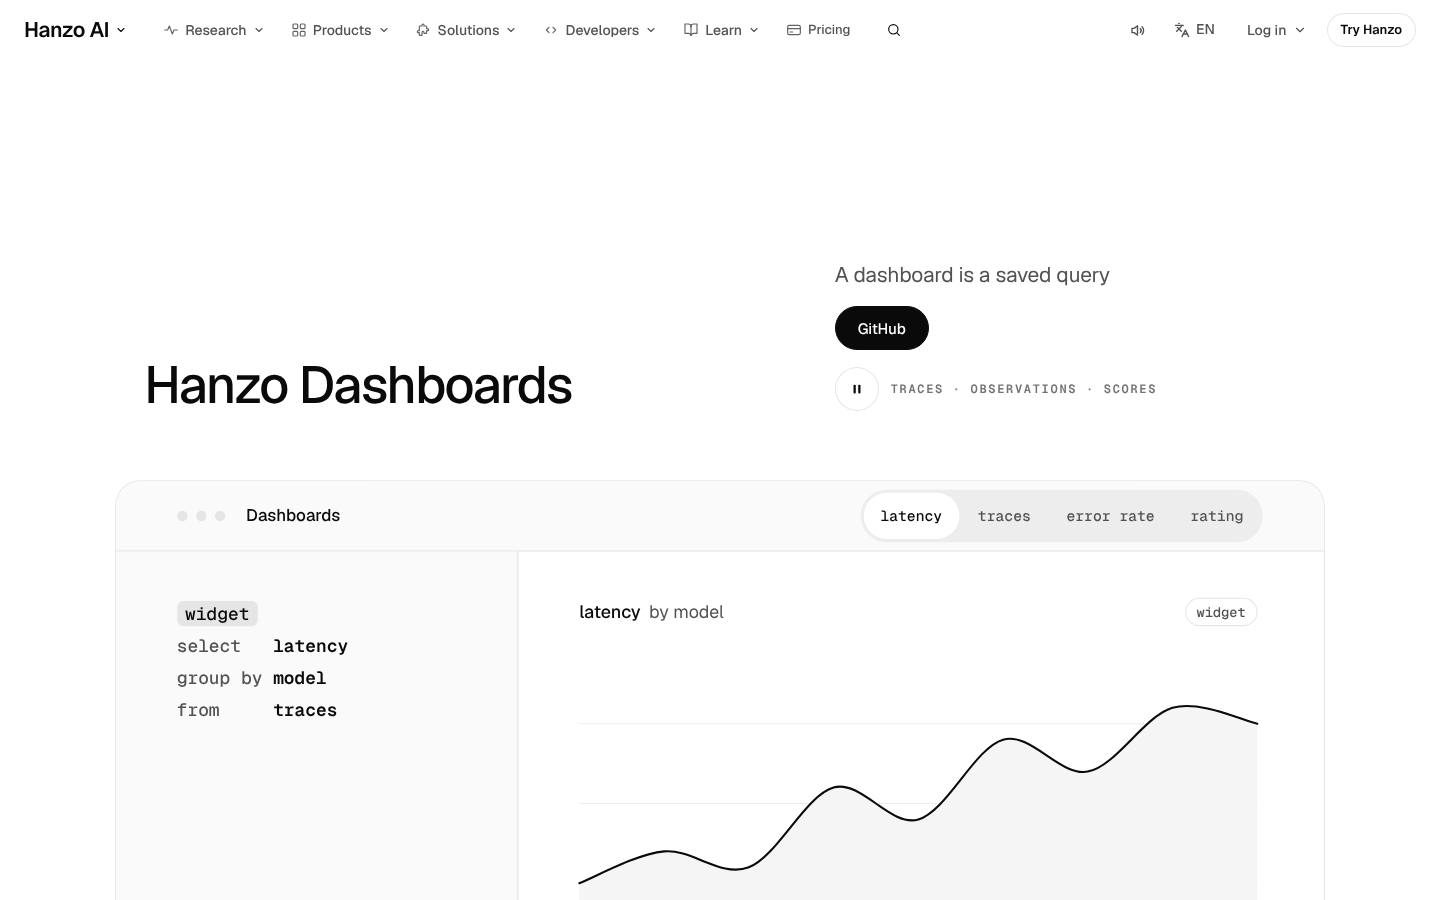
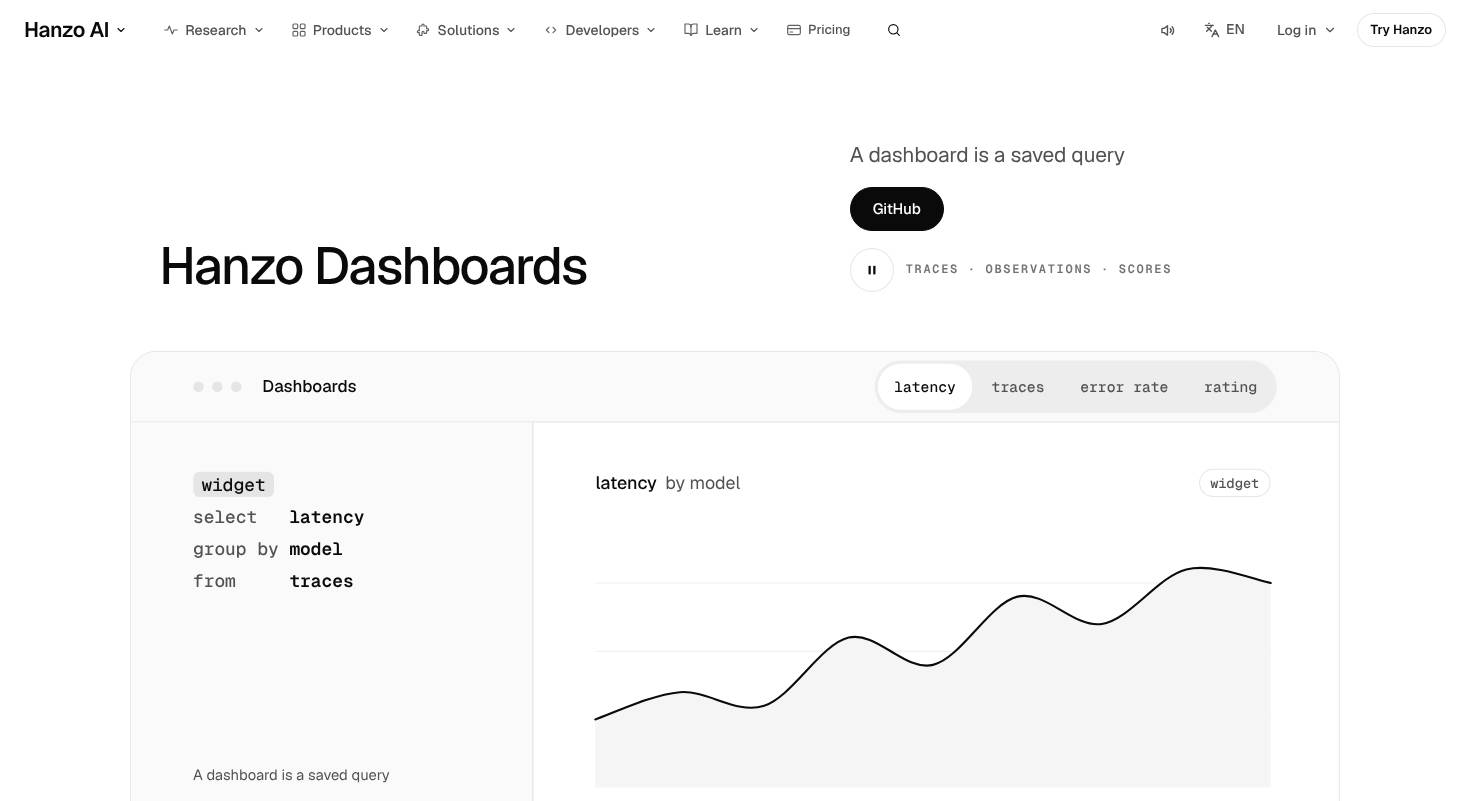
dashboards: Ready — wip edits verified; hero chart in first screen, phone sticky board clipped, gaps tightened, reduced motion final states
Adds components/pages/cloud/SafeClose.jsx (page-local KeynoteClose with useCalm, fixes the reduced-motion hydration error) for /crawl /dashboards /datastore /dns.

Claude-Session: https://claude.ai/code/session_01P5YBdx19ukLv4B41yE4M3v

diff --git a/components/pages/cloud/SafeClose.jsx b/components/pages/cloud/SafeClose.jsx
@@ -1,0 +1,69 @@
+'use client';
+/* SafeClose: v2/KeynoteClose (and its KeynoteRoom) with one change, so the pages that use it hydrate cleanly under
+   reduced motion (docs/requests/reduced-motion-hydration.md). KeynoteRoom reads motion's useReducedMotion() while
+   rendering (null on the server, true on the first client render), so the room's clip-path differs and React logs a
+   hydration error. This copy reads the kit's useCalm() instead. Same props, same markup, same CSS as KeynoteClose.
+   Used by /crawl /dashboards /datastore /dns. Delete it and import v2/KeynoteClose again once the shared file is fixed. */
+import { useRef } from 'react';
+import { motion, useScroll, useTransform, useMotionTemplate } from 'motion/react';
+import { Magnetic, useCalm } from '../../ui';
+import { A, Cta, CodeBlock } from '../../kit';
+import KeynoteLines from '../../v2/KeynoteLines';
+import { useWide } from '../../v2/KeynoteChapters';
+import '../../v2/Keynote.css';
+import '../../v2/KeynoteClose.css';
+
+function Room({ children, className = '', from = [6, 7, 24], tone = '#171717', id }) {
+  const ref = useRef(null);
+  const calm = useCalm();
+  const wide = useWide();
+  const { scrollYProgress: p } = useScroll({ target: ref, offset: ['start end', 'start 15%'] });
+  const v = useTransform(p, [0, 1], [wide ? from[0] : 2, 0], { clamp: true });
+  const h = useTransform(p, [0, 1], [wide ? from[1] : 3, 0], { clamp: true });
+  const r = useTransform(p, [0, 1], [wide ? from[2] : 24, 0], { clamp: true });
+  const clip = useMotionTemplate`inset(${v}% ${h}% ${v}% ${h}% round ${r}px)`;
+  return (
+    <section ref={ref} id={id} className={'knr ' + className} data-room="dark" style={{ position: 'relative', color: '#fafafa', isolation: 'isolate' }}>
+      <motion.div aria-hidden="true" style={{ position: 'absolute', inset: 0, background: tone, zIndex: -1, clipPath: calm ? 'none' : clip }} />
+      {children}
+    </section>
+  );
+}
+
+const Gh = () => <svg viewBox="0 0 16 16" width="14" height="14" fill="currentColor" aria-hidden="true"><path d="M8 0C3.58 0 0 3.58 0 8c0 3.54 2.29 6.53 5.47 7.59.4.07.55-.17.55-.38 0-.19-.01-.82-.01-1.49-2.01.37-2.53-.49-2.69-.94-.09-.23-.48-.94-.82-1.13-.28-.15-.68-.52-.01-.53.63-.01 1.08.58 1.23.82.72 1.21 1.87.87 2.33.66.07-.52.28-.87.51-1.07-1.78-.2-3.64-.89-3.64-3.95 0-.87.31-1.59.82-2.15-.08-.2-.36-1.02.08-2.12 0 0 .67-.21 2.2.82.64-.18 1.32-.27 2-.27.68 0 1.36.09 2 .27 1.53-1.04 2.2-.82 2.2-.82.44 1.1.16 1.92.08 2.12.51.56.82 1.27.82 2.15 0 3.07-1.87 3.75-3.65 3.95.29.25.54.73.54 1.48 0 1.07-.01 1.93-.01 2.2 0 .21.15.46.55.38A8.013 8.013 0 0016 8c0-4.42-3.58-8-8-8z" /></svg>;
+
+function Body({ name, tag, lead, prompt, api, cta = 'close', license = 'Apache-2.0', repo = ['hanzoai', 'https://github.com/hanzoai'], stars, deploy = 'https://platform.hanzo.ai/deploy', self, children, light }) {
+  return (
+    <div className="kn-wrap knx-in">
+      <KeynoteLines as="h2" className="kn-display md knx-h" lines={`Get ${name}`} />
+      {lead && <p className="kn-kick knx-lead">{lead}</p>}
+      <div className="kn-grid knx-g">
+        <div className="knx-l">
+          {tag && <p className="kn-lede knx-tag">{tag}</p>}
+          <div className="knx-meta">
+            {license && <span className="knx-chip"><span>License:</span> {license}</span>}
+            {repo && <A to={repo[1]} className="knx-chip"><Gh />{repo[0]}{stars && <em>{stars}</em>}</A>}
+          </div>
+          <div className="kn-acts knx-acts">
+            {deploy && <Magnetic strength={0.2}><Cta to={deploy} id={cta} className="knx-go">Deploy to Cloud</Cta></Magnetic>}
+            {self && <Cta to={self} kind="link" id={cta + '-self'} className="knx-self">Self-host</Cta>}
+          </div>
+          {children}
+        </div>
+        {prompt && (
+          <div className="knx-paste">
+            <p className="kn-title knx-pt">Paste and ship</p>
+            <p className="knx-pd">Paste this into any agent. It reads the skill manifest and calls {name} from there.</p>
+            {api && <p className="knx-api"><i>api</i>{api}</p>}
+            <CodeBlock code={prompt} label="Agent prompt" className="knx-code" />
+          </div>
+        )}
+      </div>
+    </div>
+  );
+}
+
+export default function SafeClose(props) {
+  if (props.light) return <section className={'kn-sec knx light ' + (props.className || '')}><Body {...props} /></section>;
+  return <Room className={'kn-sec knx ' + (props.className || '')}><Body {...props} /></Room>;
+}

diff --git a/components/pages/cloud/Dashboards.css b/components/pages/cloud/Dashboards.css
@@ -55,7 +55,7 @@
 .db-w-c { flex: 1; }
 
 /* ---------- the signature: the board builds itself ---------- */
-.db-build { position: relative; padding-top: clamp(72px, 11vw, 188px); }
+.db-build { position: relative; padding-top: clamp(44px, 6vw, 96px); }
 .db-build-h { align-items: end; row-gap: 17px; }
 .db-build-t { grid-column: 1 / span 6; }
 .db-build-l { grid-column: 8 / -1; }
@@ -154,7 +154,7 @@
 .db-hot i.on { background: var(--ink); }
 
 /* ---------- the four words, marked (the proof strip) ---------- */
-.db-figs-s { padding: 0 0 clamp(72px, 11vw, 188px); }
+.db-figs-s { padding: 0 0 clamp(56px, 7vw, 112px); }
 .db-figs { list-style: none; padding: 0; display: grid; grid-template-columns: repeat(4, minmax(0, 1fr)); border-top: 1px solid var(--ink); }
 .db-figs li { display: flex; flex-direction: column; gap: 12px; padding: 27px 24px 0 0; }
 .db-figs li + li { padding-left: 24px; border-left: 1px solid var(--line); }
@@ -222,7 +222,7 @@
 /* ---------- hover preview on the hero tabs, the chapter number as the moment ---------- */
 .db-w-c { position: relative; min-height: 0; }
 .db-ghost { position: absolute; inset: 0; opacity: .28; pointer-events: none; }
-.js .db-say-a[data-on] .db-n { transform-origin: 0 100%; animation: db-big 1.2s var(--e-in) both; }
+.js .db-say-a[data-on] .db-n { transform-origin: 0 0; animation: db-big 1.2s var(--e-in) both; }
 @keyframes db-big { from { transform: scale(3.4); color: var(--ink); } 55% { transform: scale(3.4); color: var(--ink); } }
 
 /* ---------- entrances (arrive.js sets data-arm below the fold, then data-in) ---------- */
@@ -255,17 +255,28 @@
 .db .mq-lens-copy { position: absolute; left: 0; top: 0; transform-origin: 0 0; transform: translate(calc(88px - var(--x, 0px) * 1.6), calc(88px - var(--y, 0px) * 1.6)) scale(1.6); }
 
 /* ---------- phones: one sticky board, the parts scroll under it ---------- */
-.db-mob-board { position: sticky; top: 64px; z-index: 2; height: 44svh; gap: 6px; padding: 10px 0; background: #fff; }
-.db-mob-p { padding: 8px; gap: 6px; border-radius: 12px; opacity: 0; transform: translateY(16px) scale(.92); transition: opacity .4s var(--e-in), transform .5s var(--e-in), outline-color .3s var(--e-out); }
-.db-mob-p[data-in] { opacity: 1; transform: none; }
+.db-mob-board { position: sticky; top: 60px; z-index: 2; height: 44svh; gap: 6px; padding: 10px 0; background: #fff; }
+.db-mob-p { padding: 8px; gap: 6px; border-radius: 12px; overflow: hidden; transition: opacity .4s var(--e-in), transform .5s var(--e-in), outline-color .3s var(--e-out); }
+.js .db-mob-p:not([data-in]) { opacity: 0; transform: translateY(16px) scale(.92); }
 .db-mob-p .db-ph span, .db-mob-p .db-tbl-chips, .db-mob-p .db-ch-bars em { display: none; }
-.db-mob-p .db-store li { padding: 6px 8px; }
+.db-mob-p .db-store li { padding: 6px 8px; overflow: hidden; white-space: nowrap; }
+.db-mob-p .db-store i { flex: none; }
+.db-mob-p .db-perm span { overflow: hidden; text-overflow: ellipsis; white-space: nowrap; min-width: 0; }
+.db-mob-p .db-perm svg { flex: none; }
 .db-mob .db-li { padding: 32px 0; }
 @media (min-width: 900px) { .db-mob { display: none; } }
 
+/* the first screen: the saved query and its chart sit inside 1470x801 (the shared stage starts lower) */
+@media (min-width: 900px) {
+  .db > .kns { padding-top: clamp(32px, calc(26svh - 128px), 120px); }
+  .db > .kns .kns-g { row-gap: 36px; }
+  .db > .kns { padding-bottom: clamp(44px, 5vw, 72px); }
+  .db-hero { aspect-ratio: 16 / 6.4; }
+}
+
 @media (prefers-reduced-motion: reduce) {
-  .db-hero, .db-say-a[data-on] .db-n { animation: none !important; }
-  .db-mob-p { opacity: 1; transform: none; transition: none; }
+  .db-hero, .db-say-a[data-on] .db-n, .db .kns-in, .db .kns-obj-in, .db .knl-t { animation: none !important; }
+  .db-mob-p { opacity: 1 !important; transform: none !important; transition: none; }
   .db-l, .db-ch .ln, .db-ch-bars i, .db-watch-top pre em { animation: none !important; }
   .db-say-a, .db-say-a[data-on], .db-li-p, .db-figs b i, .db-panel, .db-ch .pt { transition: none !important; }
 }

diff --git a/components/pages/cloud/Dashboards.jsx b/components/pages/cloud/Dashboards.jsx
@@ -25,7 +25,7 @@ import { motion, useInView, useMotionValueEvent, useScroll, useTransform } from 
 import { A, Cta } from '../../kit';
 import { useCalm } from '../../ui';
 import KeynoteStage, { useStagePause } from './SafeStage';
-import KeynoteClose from '../../v2/KeynoteClose';
+import KeynoteClose from './SafeClose';
 import KeynoteLines from '../../v2/KeynoteLines';
 import ExampleConsole from './ExampleConsole';
 import { CursorLens, Lens } from './MqEntrances';

diff --git a/docs/review/dashboards.md b/docs/review/dashboards.md
@@ -1,4 +1,5 @@
 # /dashboards — James-eye review
+Ready: 2026-11-08 wip edits verified and finished: panel 1 landed at pin, Monitors said once, chapter number grows as the moment, hero tabs ghost-preview on hover, phone sticky board (panels clipped, JS-off visible), hero chart inside 1470x801, gaps tightened, five entrances (wipe/curtain/stack-drop/explode/lens) play and reduced motion shows final states with 0 animations and 0 hydration errors (page-local SafeClose); taste OK, parity 69/69 + 12/12, unique OK, check 0 errors/0 overlaps/no h-scroll at 1470 and 375.
 7 Nov. Walked moving at 1470x801 and 375x812 (phone: isMobile, hasTouch) with Playwright on this worktree's dev server (:4182). At each size: frames at 0, 1 and 3 s with no input, then wheel scrolls of 0.85 of a screen with a 1.5 s dwell to the footer, hover and press on every control in `main` on desktop, taps on phone (hero tab, widget/monitor switch). Measured CLS, horizontal overflow and console output. Component: `components/pages/cloud/Dashboards.jsx`.
 
 Verdict: 7/10
